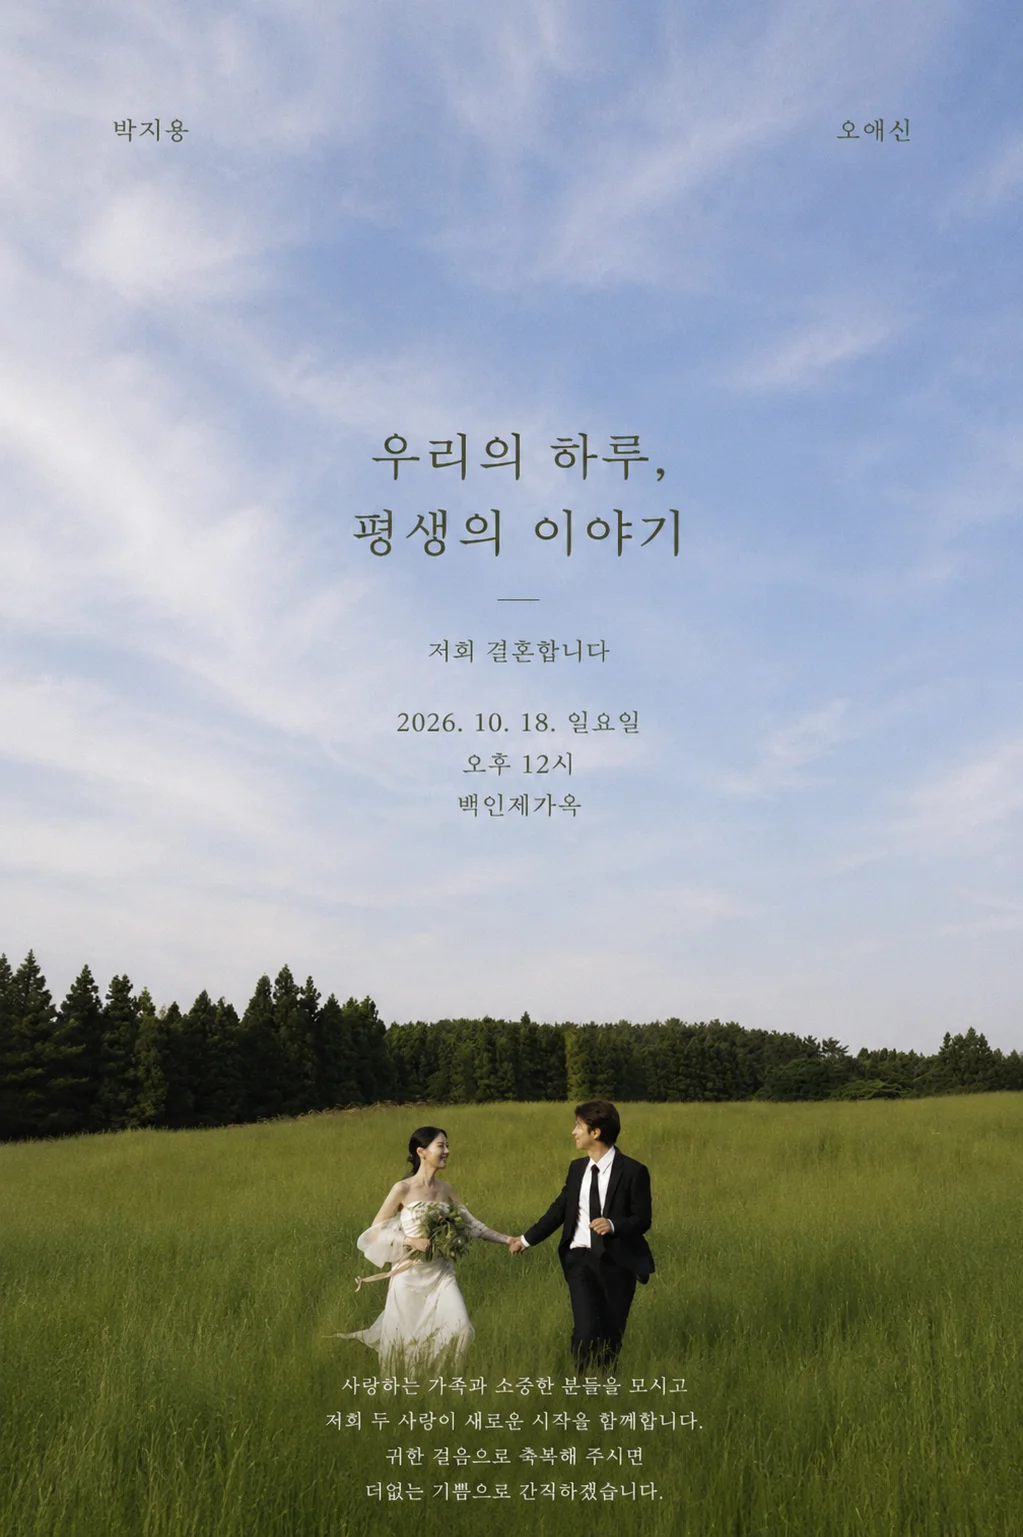
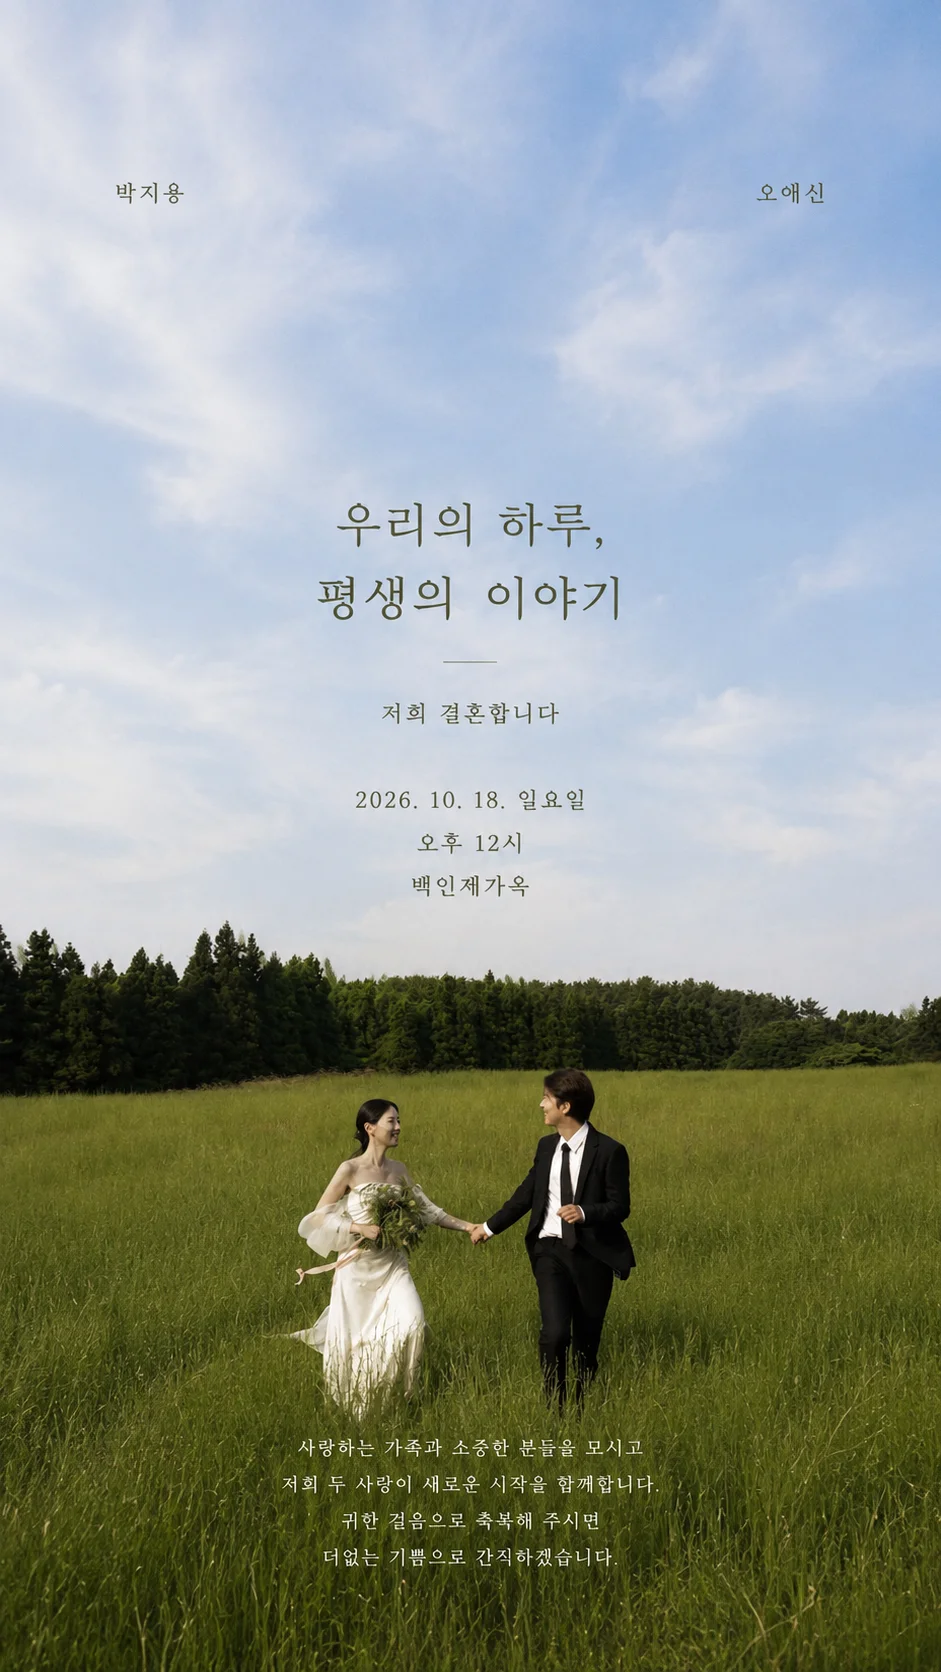
표지 9:16 시안으로 교체 · 모바일 상하 여백(세이프에어리어) 정리
- 표지: 941x1672(9:16) 새 시안. 390px 폭 기준 높이 693px 로 첫 화면을 거의 채운다
  (이전 2:3 시안은 586px, 화면의 69%였다). webp 162KB.

- 상태표시줄 영역은 브라우저가 칠하는 곳이라 사진을 그릴 수 없다. 대신 그 색을
  화면에 맞춰 바꾼다: 인트로일 때는 인트로 사진 상단색(#e7e1db),
  표지로 넘어가면 하늘색(#aabddc). config.themeColor 에서 관리하고
  첫 페인트용 기본값은 index.html 에 둔다.

- 하단 바가 홈 인디케이터 영역까지 덮도록 env(safe-area-inset-bottom) 만큼
  높이와 아래 여백을 늘렸다(그러지 않으면 바 아래로 지색 띠가 남는다).

- 캔버스(세이프에어리어 띠·오버스크롤) 색을 어두운 --bg 에서 지색 --paper 로
  바꿔 튀지 않게 하고, 데스크톱 좌우 여백용 --bg 는 .app 이 맡도록 옮겼다.

diff --git a/src/index.css b/src/index.css
@@ -74,7 +74,8 @@ body {
   padding: 0;
 }
 body {
-  background: var(--bg);
+  /* 캔버스(세이프에어리어 띠 · 오버스크롤 영역)에 칠해지는 색 */
+  background: var(--paper);
   color: var(--text);
   font-family: var(--sans);
   font-size: 17px;
@@ -105,6 +106,7 @@ button {
   min-height: 100vh;
   display: flex;
   justify-content: center;
+  background: var(--bg); /* 데스크톱에서 프레임 좌우 여백 */
 }
 .frame {
   position: relative;
@@ -1075,7 +1077,7 @@ button {
 /* 이름·날짜·맺음말까지 들어간 완성 이미지 한 장.
    아래 여백은 하단 고정 바에 이미지가 가리지 않게 확보한다. */
 .footer {
-  padding-bottom: 54px;
+  padding-bottom: calc(54px + env(safe-area-inset-bottom, 0px));
 }
 .footer__img {
   width: 100%;
@@ -1247,8 +1249,8 @@ button {
 }
 
 /* ============ 하단 고정 바(바로가기) ============ */
-/* 세이프에어리어 여백 없이 화면 맨 아래에 붙인다(요청사항).
-   홈 인디케이터를 피하려면 padding-bottom: env(safe-area-inset-bottom) 을 더하면 된다. */
+/* 화면 맨 아래에 붙이되, 홈 인디케이터 영역까지 바 배경으로 덮는다.
+   (그러지 않으면 바 아래로 지색 띠가 한 줄 남는다) */
 .bottomnav {
   position: fixed;
   left: 50%;
@@ -1257,7 +1259,8 @@ button {
   z-index: 400;
   width: 100%;
   max-width: var(--frame-w);
-  height: 54px;
+  height: calc(54px + env(safe-area-inset-bottom, 0px));
+  padding-bottom: env(safe-area-inset-bottom, 0px);
   display: flex;
   align-items: stretch;
   background: rgba(246, 243, 236, 0.94);

diff --git a/src/App.jsx b/src/App.jsx
@@ -1,6 +1,7 @@
-import { useState } from 'react'
+import { useEffect, useState } from 'react'
 import { config } from './config'
 import { useAccountVisible } from './lib/useAccountVisible'
+import { setThemeColor } from './lib/themeColor'
 import Bgm from './components/Bgm'
 import Intro from './components/Intro'
 import Cover from './components/Cover'
@@ -22,6 +23,13 @@ export default function App() {
       !config.intro.enabled ||
       new URLSearchParams(window.location.search).get('intro') === 'off',
   )
+
+  // 인트로 → 표지로 넘어갈 때 상태표시줄 색도 각 사진 상단색으로 맞춘다.
+  useEffect(() => {
+    setThemeColor(
+      introDone ? config.themeColor.cover : config.themeColor.intro,
+    )
+  }, [introDone])
 
   const [a, b] = config.groomFirst
     ? [config.groom, config.bride]

diff --git a/src/config.js b/src/config.js
@@ -82,6 +82,14 @@ export const config = {
     // (없으면 갤러리 첫 사진이 사용됩니다.)
   },
 
+  // 모바일 브라우저 상단 상태표시줄 영역의 색.
+  // 그 영역은 브라우저가 칠하는 곳이라 사진을 그릴 수는 없고 색만 맞출 수 있습니다.
+  // 각 이미지의 맨 윗줄 평균색을 넣어두면 이미지가 이어지는 것처럼 보입니다.
+  themeColor: {
+    intro: '#e7e1db', // 인트로(전환 전) 사진 상단색
+    cover: '#aabddc', // 표지 사진 상단색(하늘)
+  },
+
   // 맨 아래 맺음말 (줄바꿈 그대로 반영)
   footer: {
     message: `평범한 하루하루를 함께 나누고

diff --git a/index.html b/index.html
@@ -5,6 +5,8 @@
     <link rel="icon" type="image/png" href="/favicon.png" />
     <link rel="apple-touch-icon" href="/apple-touch-icon.png" />
     <meta name="viewport" content="width=device-width, initial-scale=1.0, viewport-fit=cover" />
+    <!-- 상태표시줄 영역 색. 첫 화면(인트로) 사진 상단색으로 시작해 App 에서 화면에 맞춰 바꿉니다. -->
+    <meta name="theme-color" content="#e7e1db" />
 
     <!-- 페이지 제목 (브라우저 탭 / 공유 미리보기) -->
     <title>박지용 ♥ 오애신 결혼합니다</title>

diff --git a/src/lib/themeColor.js b/src/lib/themeColor.js
@@ -1,0 +1,12 @@
+// 모바일 브라우저가 상태표시줄 영역에 칠하는 색(theme-color)을 바꿔준다.
+// 그 영역은 브라우저 소유라 사진을 그릴 수 없고, 색만 맞춰 이어져 보이게 할 수 있다.
+export function setThemeColor(color) {
+  if (typeof document === 'undefined') return
+  let meta = document.querySelector('meta[name="theme-color"]')
+  if (!meta) {
+    meta = document.createElement('meta')
+    meta.name = 'theme-color'
+    document.head.appendChild(meta)
+  }
+  meta.content = color
+}

diff --git a/src/components/BottomNav.jsx b/src/components/BottomNav.jsx
@@ -5,7 +5,7 @@ const ITEMS = [
 ]
 
 // 화면 하단 고정 바. 누르면 해당 섹션으로 부드럽게 이동한다.
-// (세이프에어리어 여백 없이 화면 맨 아래에 붙인다 — 요청사항)
+// 홈 인디케이터 영역까지 바 배경이 덮도록 아래 여백을 env() 로 확보한다.
 export default function BottomNav() {
   const go = (id) => {
     document.getElementById(id)?.scrollIntoView({
